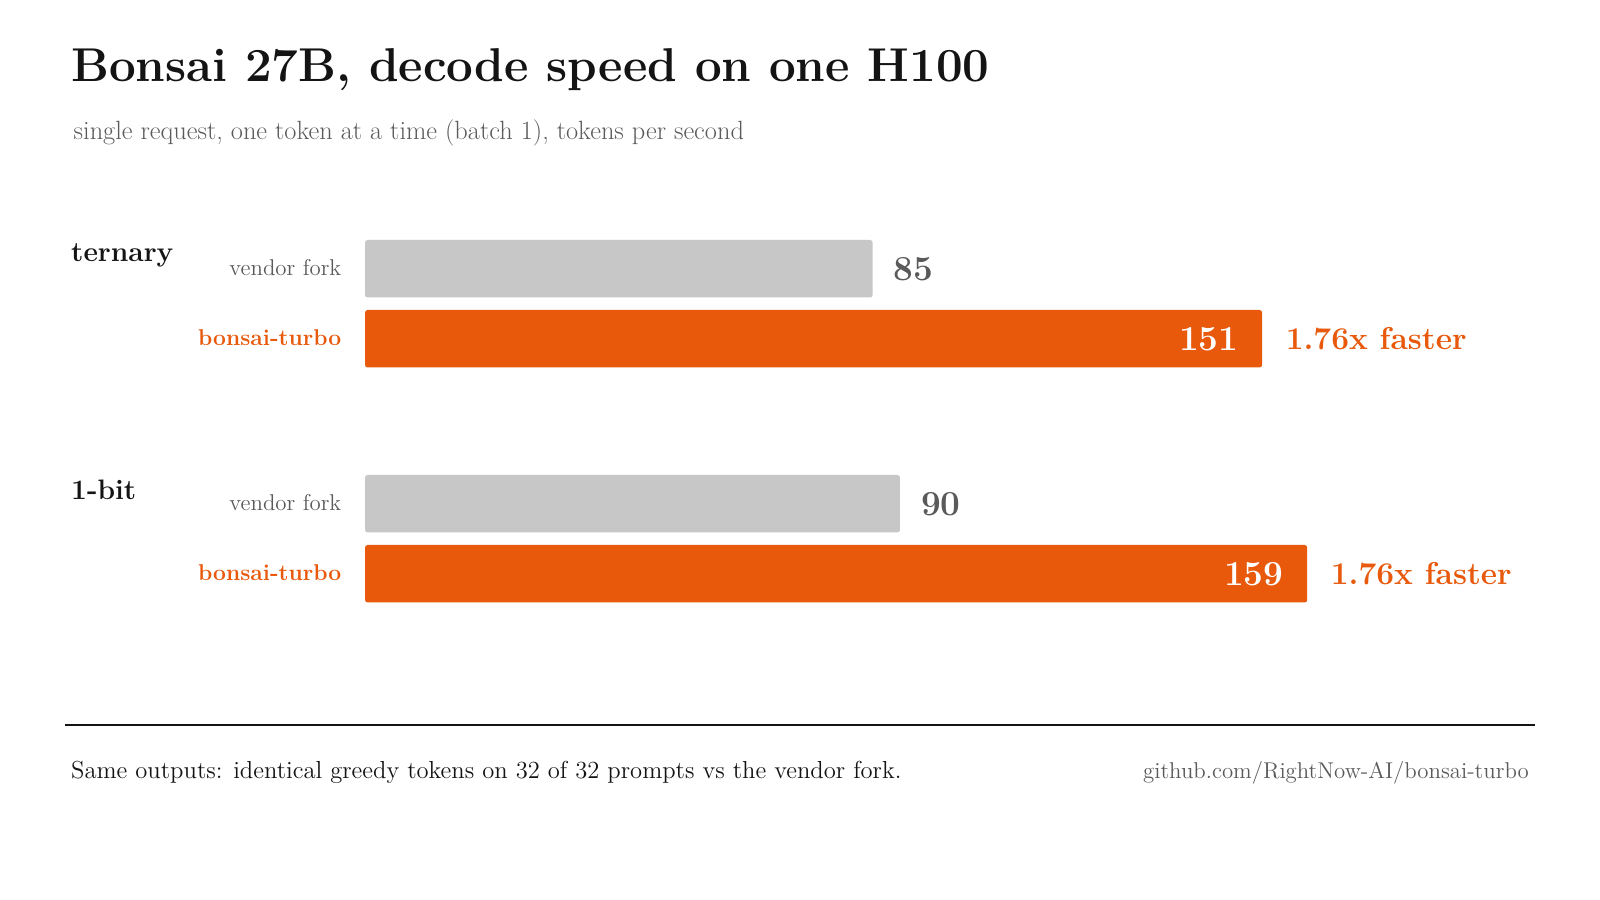
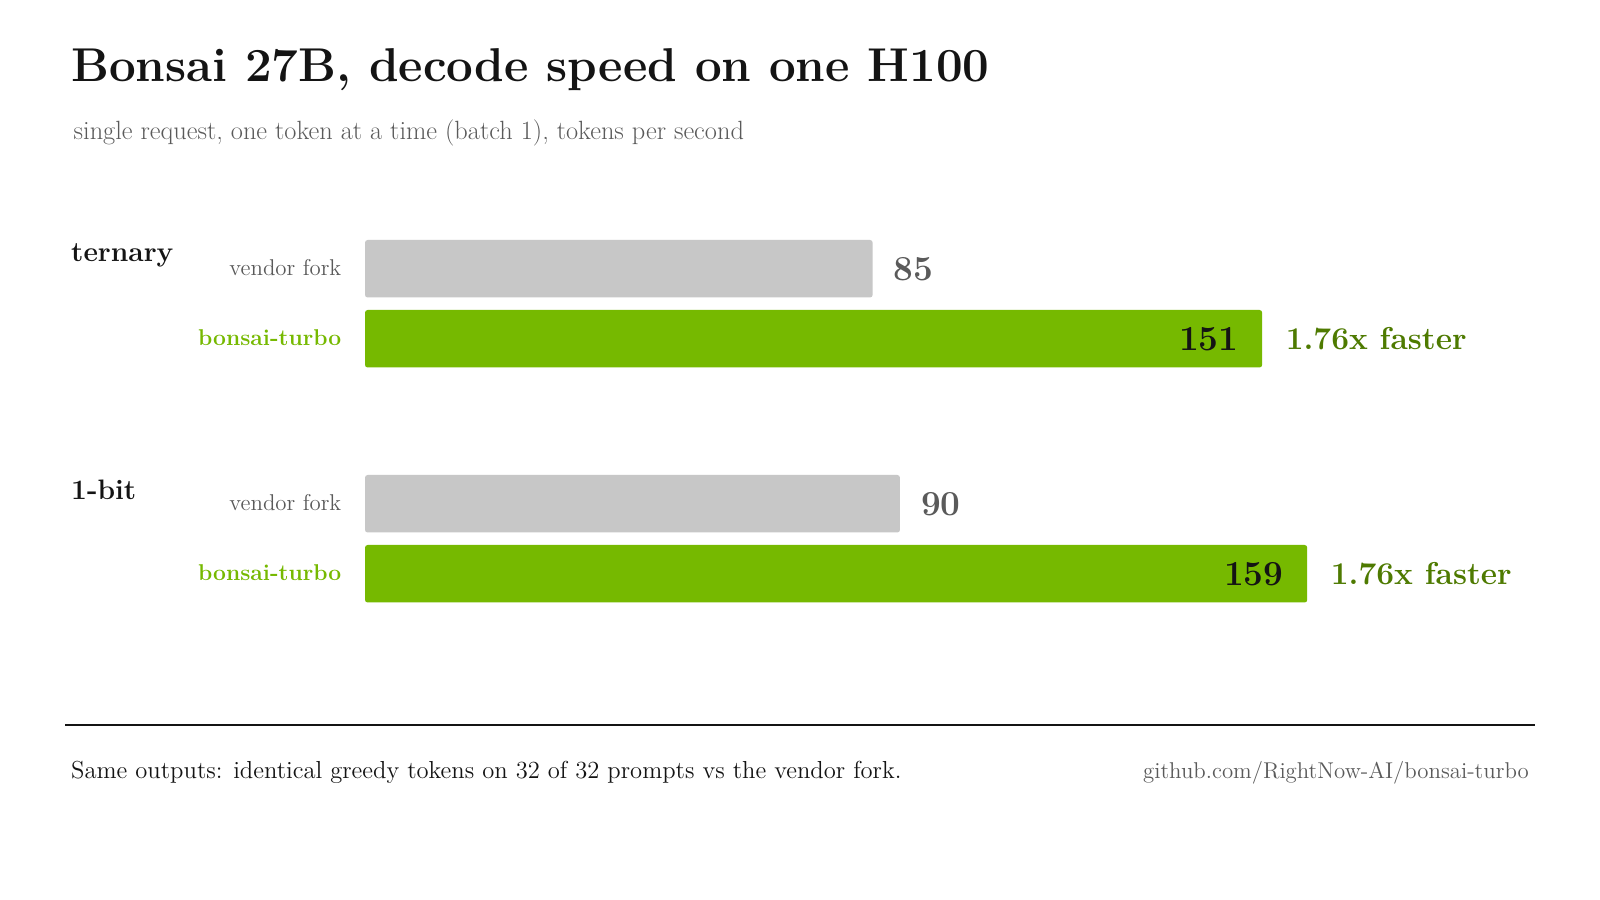
comparison chart: NVIDIA green

Changed region(s): [[0.125, 0.5911, 0.9375, 0.6844], [0.125, 0.3422, 0.9062, 0.4356]]

diff --git a/docs/assets/compare.tex b/docs/assets/compare.tex
@@ -10,7 +10,8 @@
 \definecolor{ink}{HTML}{141414}
 \definecolor{gray1}{HTML}{5A5A5A}
 \definecolor{barv}{HTML}{C7C7C7}   % vendor: light gray
-\definecolor{acc}{HTML}{E8590C}    % ours: orange
+\definecolor{acc}{HTML}{76B900}    % ours: NVIDIA green
+\definecolor{accdark}{HTML}{4E7A00} % deeper green for text on white
 
 \begin{document}
 \begin{tikzpicture}[x=1cm, y=1cm]
@@ -25,12 +26,12 @@
   \node[anchor=west, font=\fontsize{20}{20}\selectfont\bfseries, text=gray1]
       at (\X0+#2*\S+0.3, #1+0.575) {#3};
 }
-% ours bar: orange, tok/s in white inside, speedup in orange outside
+% ours bar: green, tok/s in dark ink inside, speedup in deep green outside
 \newcommand{\obar}[4]{% y, tok/s, toklabel, speeduplabel
   \fill[acc, rounded corners=1.5pt] (\X0,#1) rectangle (\X0+#2*\S, #1+1.15);
-  \node[anchor=east, font=\fontsize{20}{20}\selectfont\bfseries, text=white]
+  \node[anchor=east, font=\fontsize{20}{20}\selectfont\bfseries, text=ink]
       at (\X0+#2*\S-0.35, #1+0.575) {#3};
-  \node[anchor=west, font=\fontsize{18}{18}\selectfont\bfseries, text=acc]
+  \node[anchor=west, font=\fontsize{18}{18}\selectfont\bfseries, text=accdark]
       at (\X0+#2*\S+0.35, #1+0.575) {#4 faster};
 }
 